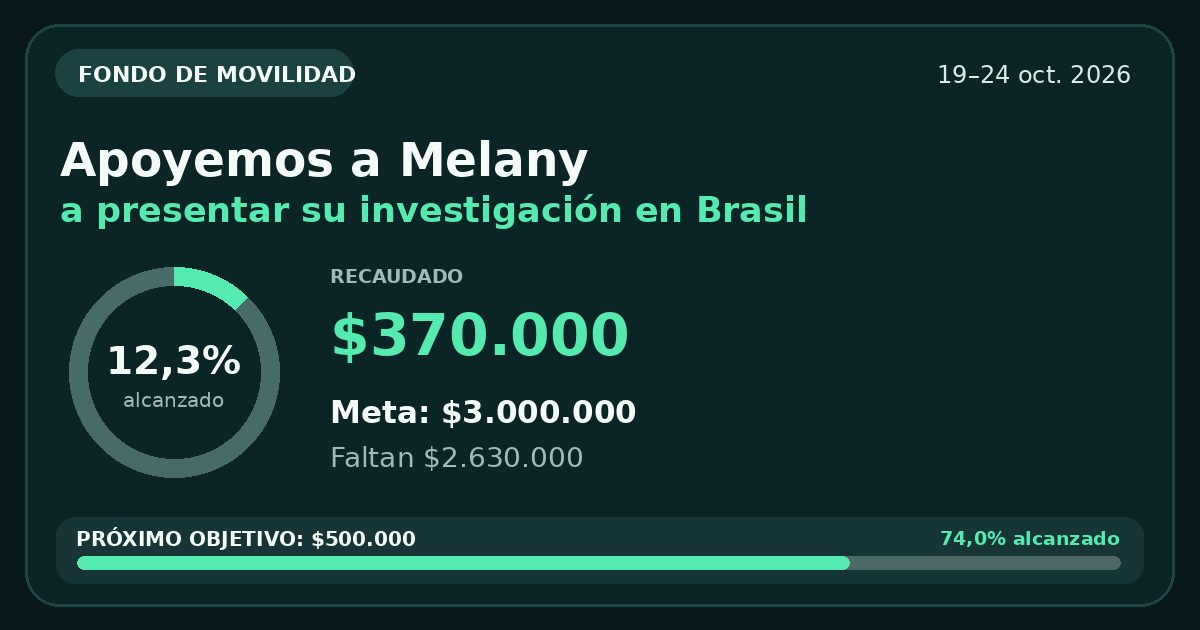
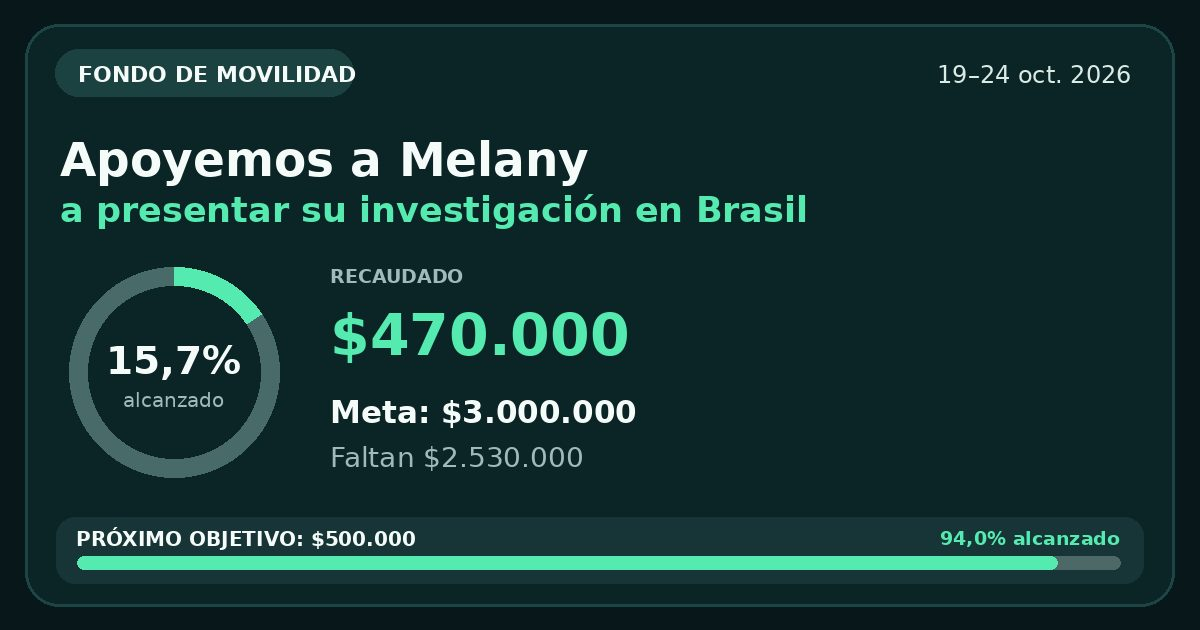
Actualiza recaudo e imagen WhatsApp desde Sheets

diff --git a/index.html b/index.html
@@ -4,7 +4,7 @@
   <meta charset="UTF-8">
   <meta name="viewport" content="width=device-width, initial-scale=1, viewport-fit=cover">
   <meta name="theme-color" content="#0b1516">
-  <meta name="description" content="Hemos recaudado $370.000 de $3.000.000. Consulta el avance y cómo aportar.">
+  <meta name="description" content="Hemos recaudado $470.000 de $3.000.000. Consulta el avance y cómo aportar.">
   <title>Apoyemos a Melany · Colecta solidaria</title>
 
   <!-- VISTA PREVIA DE WHATSAPP: reemplazar plravelor por el usuario REAL de GitHub. -->
@@ -12,7 +12,7 @@
   <meta property="og:locale" content="es_CO">
   <meta property="og:site_name" content="Colecta solidaria para Melany">
   <meta property="og:title" content="Ayudemos a Melany a presentar su investigación en Brasil">
-  <meta property="og:description" content="Hemos recaudado $370.000 de $3.000.000. Consulta el avance y cómo aportar.">
+  <meta property="og:description" content="Hemos recaudado $470.000 de $3.000.000. Consulta el avance y cómo aportar.">
   <meta property="og:image" content="https://plravelor.github.io/fondo-melany/assets/og-portada-auto.jpg">
   <meta property="og:image:width" content="1200">
   <meta property="og:image:height" content="630">
